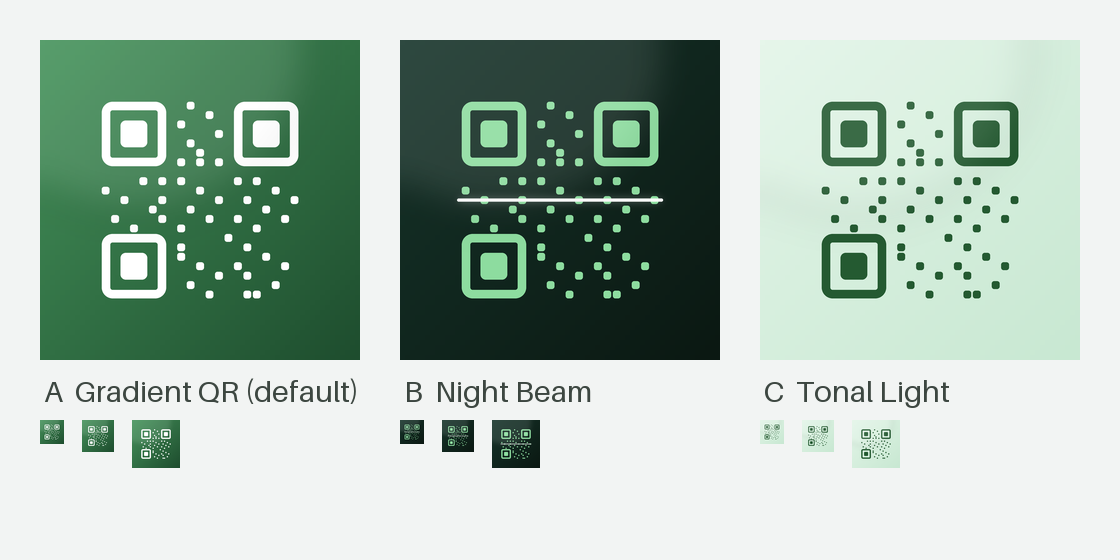
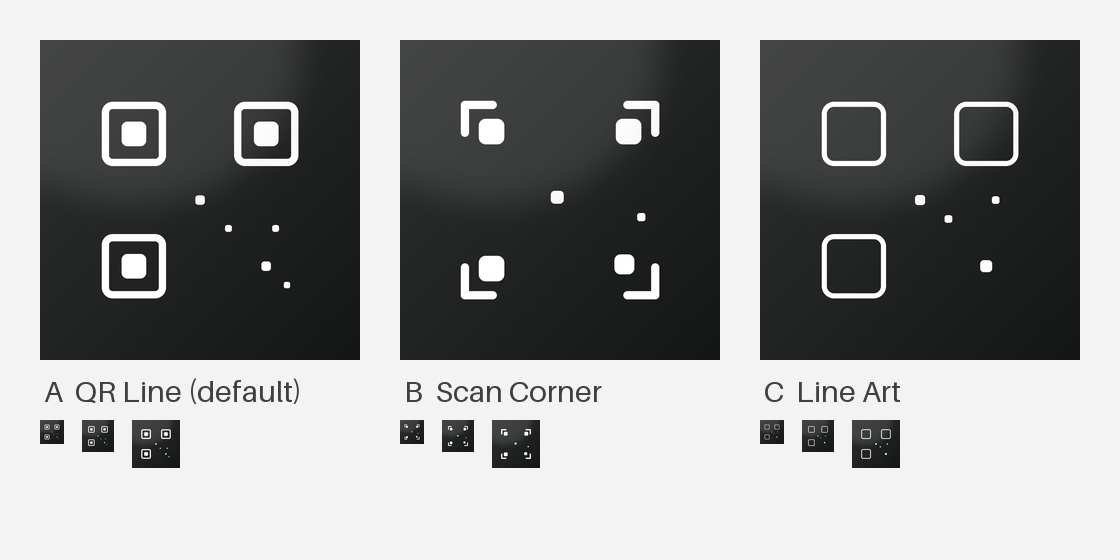
feat: 图标改黑白灰配色（灰黑渐变非纯黑）+ 极简二维码字形（参考 lucide/remixicon）

diff --git a/tools/generate_icons.py b/tools/generate_icons.py
@@ -1,9 +1,14 @@
 #!/usr/bin/env python3
 """生成 PWA 图标（Pillow，纯本地）。
 
-设计 A（默认落地）：对角绿色渐变底 + 白色圆角二维码字形 + 左上柔光。
-变体 B：深绿夜色底 + 薄荷绿字形 + 横向扫描光束。
-变体 C：浅色 tonal 底 + 深绿字形（亮色主题风格）。
+配色：黑白灰——灰黑对角渐变底（#2E3130→#151716，非纯黑）+ 纯白字形。
+字形：极简风格（参考 lucide scan-qr-code / remixicon qr-code-line），
+      三个定位角 + 极少量数据点，不铺满网格。
+
+变体（字形风格对比，默认落地 A）：
+  A QR Line     — 三 finder 描边框+中心块 + 5 稀疏数据点（remixicon qr-code-line 风）
+  B Scan Corner — 四角 L 括号 + 3 实心 finder 小方 + 2 小点（lucide scan-qr-code 风）
+  C Line Art    — 三 finder 细描边框（无中心块）+ 4 小点
 
 输出：
   public/icons/icon-192.png / icon-512.png / maskable-512.png / apple-touch-icon.png
@@ -19,16 +24,10 @@ PREVIEW = os.path.join(ROOT, "design-demo", "icon-variants.png")
 SS = 2          # 超采样倍数
 CANVAS = 1024   # 逻辑画布
 
-# 数据区固定图案（21x21 网格坐标）
-PATTERN = [
-    (9, 0), (11, 1), (8, 2), (12, 3), (9, 4), (10, 5),
-    (16, 8), (18, 9), (20, 10), (17, 11), (19, 12), (16, 13),
-    (0, 9), (2, 10), (4, 8), (1, 12), (3, 13), (5, 11),
-    (8, 8), (10, 9), (12, 10), (9, 11), (11, 12), (8, 13),
-    (8, 16), (10, 17), (12, 18), (9, 19), (11, 20), (8, 15),
-    (14, 8), (15, 10), (14, 12), (15, 15), (17, 16), (19, 17),
-    (15, 18), (18, 19), (16, 20), (13, 14), (14, 17), (15, 20),
-]
+# 灰黑渐变（黑中带灰，不用纯黑）
+GRAPHITE_1 = (46, 49, 48)   # #2E3130
+GRAPHITE_2 = (21, 23, 22)   # #151716
+WHITE = (255, 255, 255)
 
 
 def lerp(a, b, t):
@@ -45,52 +44,71 @@ def gradient(size, c1, c2):
     return g.resize((size, size), Image.BICUBIC)
 
 
-def qr_glyph(draw, ox, oy, u, color):
-    """圆角二维码字形：3 个圆角定位角 + 时序点 + 数据区。"""
-    pad = u * 0.09
+def _dot(draw, ox, oy, u, gx, gy, s, color):
+    """网格 (gx,gy) 处画边长 s*u 的居中圆角点。"""
+    pad = (1 - s) / 2
+    draw.rounded_rectangle(
+        [ox + (gx + pad) * u, oy + (gy + pad) * u, ox + (gx + pad + s) * u, oy + (gy + pad + s) * u],
+        radius=u * s * 0.3, fill=color)
 
-    def mod(x, y, w=1, h=1, r=None):
-        draw.rounded_rectangle(
-            [ox + x * u + pad, oy + y * u + pad, ox + (x + w) * u - pad, oy + (y + h) * u - pad],
-            radius=u * 0.26 if r is None else r, fill=color)
 
+def glyph_qrline(draw, ox, oy, u, color):
+    """A：三 finder（描边框+中心块）+ 5 稀疏点。"""
+    pad = u * 0.10
     for fx, fy in ((0, 0), (14, 0), (0, 14)):
         draw.rounded_rectangle(
             [ox + fx * u + pad, oy + fy * u + pad, ox + (fx + 7) * u - pad, oy + (fy + 7) * u - pad],
-            radius=u * 1.15, outline=color, width=int(u * 0.92))
-        mod(fx + 2, fy + 2, 3, 3, r=u * 0.55)
-
-    for i in range(8, 13, 2):
-        mod(i, 6)
-        mod(6, i)
-
-    for x, y in PATTERN:
-        mod(x, y)
+            radius=u * 1.15, outline=color, width=int(u * 0.78))
+        draw.rounded_rectangle(
+            [ox + (fx + 2.2) * u, oy + (fy + 2.2) * u, ox + (fx + 4.8) * u, oy + (fy + 4.8) * u],
+            radius=u * 0.62, fill=color)
+    for gx, gy, s in ((10, 10, 1.0), (13, 13, 0.72), (17, 17, 1.0), (19.2, 19, 0.66), (18, 13, 0.72)):
+        _dot(draw, ox, oy, u, gx, gy, s, color)
 
 
-def variant(bg1, bg2, glyph_color, gscale=0.62, beam=False):
+def glyph_scancorner(draw, ox, oy, u, color):
+    """B：四角 L 括号 + 3 实心 finder 小方 + 2 小点。"""
+    arm, th = 3.8, 0.85
+    r = th * u / 2
+    # 四角 L 形：(水平臂矩形, 垂直臂矩形) 网格坐标，臂均朝图形内侧延伸
+    corners = (
+        ((0, 0, arm, th), (0, 0, th, arm)),                        # 左上
+        ((21 - arm, 0, 21, th), (21 - th, 0, 21, arm)),            # 右上
+        ((0, 21 - th, arm, 21), (0, 21 - arm, th, 21)),            # 左下
+        ((21 - arm, 21 - th, 21, 21), (21 - th, 21 - arm, 21, 21)),  # 右下
+    )
+    for hrect, vrect in corners:
+        for x0, y0, x1, y1 in (hrect, vrect):
+            draw.rounded_rectangle([ox + x0 * u, oy + y0 * u, ox + x1 * u, oy + y1 * u],
+                                   radius=r, fill=color)
+    for fx, fy in ((1.9, 1.9), (16.4, 1.9), (1.9, 16.4)):
+        draw.rounded_rectangle(
+            [ox + fx * u, oy + fy * u, ox + (fx + 2.7) * u, oy + (fy + 2.7) * u],
+            radius=u * 0.72, fill=color)
+    for gx, gy, s in ((9.7, 9.7, 1.35), (16.8, 16.8, 2.1), (18.6, 11.8, 0.85)):
+        _dot(draw, ox, oy, u, gx, gy, s, color)
+
+
+def glyph_lineart(draw, ox, oy, u, color):
+    """C：三 finder 细描边框（无中心块）+ 4 小点。"""
+    pad = u * 0.10
+    for fx, fy in ((0, 0), (14, 0), (0, 14)):
+        draw.rounded_rectangle(
+            [ox + fx * u + pad, oy + fy * u + pad, ox + (fx + 7) * u - pad, oy + (fy + 7) * u - pad],
+            radius=u * 1.3, outline=color, width=int(u * 0.55))
+    for gx, gy, s in ((10, 10, 1.05), (13, 12, 0.8), (17, 17, 1.25), (18, 10, 0.8)):
+        _dot(draw, ox, oy, u, gx, gy, s, color)
+
+
+def variant(glyph, gscale=0.62):
     size = CANVAS * SS
-    img = gradient(size, bg1, bg2).convert("RGBA")
+    img = gradient(size, GRAPHITE_1, GRAPHITE_2).convert("RGBA")
+    draw = ImageDraw.Draw(img)
     u = size * gscale / 21
     ox = oy = (size - u * 21) / 2
-    by = oy + u * 10.5
+    glyph(draw, ox, oy, u, WHITE)
 
-    if beam:
-        glow = Image.new("RGBA", (size, size), (0, 0, 0, 0))
-        gd = ImageDraw.Draw(glow)
-        gd.rounded_rectangle([ox - u * 0.6, by - u * 0.55, ox + u * 21.6, by + u * 0.55],
-                             radius=u * 0.55, fill=(255, 255, 255, 60))
-        glow = glow.filter(ImageFilter.GaussianBlur(u * 0.5))
-        img = Image.alpha_composite(img, glow)
-
-    draw = ImageDraw.Draw(img)
-    qr_glyph(draw, ox, oy, u, glyph_color)
-
-    if beam:
-        draw.rounded_rectangle([ox - u * 0.4, by - u * 0.16, ox + u * 21.4, by + u * 0.16],
-                               radius=u * 0.16, fill=(255, 255, 255, 190))
-
-    # 左上柔光
+    # 左上柔光（玻璃质感）
     sheen = Image.new("RGBA", (size, size), (0, 0, 0, 0))
     sd = ImageDraw.Draw(sheen)
     sd.ellipse([-size * 0.25, -size * 0.45, size * 0.85, size * 0.55], fill=(255, 255, 255, 26))
@@ -104,19 +122,18 @@ def sheet(variants):
     tile, gap, pad = 320, 40, 40
     w = pad * 2 + tile * 3 + gap * 2
     h = pad * 2 + tile + 70 + 90
-    canvas = Image.new("RGB", (w, h), (242, 244, 243))
+    canvas = Image.new("RGB", (w, h), (242, 243, 242))
     draw = ImageDraw.Draw(canvas)
     try:
         font = ImageFont.load_default(size=30)
     except TypeError:
         font = ImageFont.load_default()
-    labels = ["A  Gradient QR (default)", "B  Night Beam", "C  Tonal Light"]
+    labels = ["A  QR Line (default)", "B  Scan Corner", "C  Line Art"]
     for i, (v, label) in enumerate(zip(variants, labels)):
         x = pad + i * (tile + gap)
         icon = v.resize((tile, tile), Image.LANCZOS)
         canvas.paste(icon, (x, pad), icon)
-        draw.text((x + 4, pad + tile + 12), label, fill=(60, 70, 64), font=font)
-        # 小尺寸可读性
+        draw.text((x + 4, pad + tile + 12), label, fill=(60, 64, 62), font=font)
         sx = x
         for s in (24, 32, 48):
             small = v.resize((s, s), Image.LANCZOS)
@@ -128,17 +145,17 @@ def sheet(variants):
 
 def main():
     os.makedirs(OUT_DIR, exist_ok=True)
-    a = variant((69, 147, 91), (30, 77, 46), (255, 255, 255))
-    b = variant((22, 52, 42), (11, 24, 18), (141, 220, 159), beam=True)
-    c = variant((227, 245, 232), (200, 232, 210), (36, 90, 49))
+    a = variant(glyph_qrline)
+    b = variant(glyph_scancorner)
+    c = variant(glyph_lineart)
     sheet([a, b, c])
 
     a.resize((192, 192), Image.LANCZOS).save(f"{OUT_DIR}/icon-192.png")
     a.resize((512, 512), Image.LANCZOS).save(f"{OUT_DIR}/icon-512.png")
-    variant((69, 147, 91), (30, 77, 46), (255, 255, 255), gscale=0.52) \
-        .resize((512, 512), Image.LANCZOS).save(f"{OUT_DIR}/maskable-512.png")
-    variant((69, 147, 91), (30, 77, 46), (255, 255, 255), gscale=0.60) \
-        .resize((180, 180), Image.LANCZOS).save(f"{OUT_DIR}/apple-touch-icon.png")
+    variant(glyph_qrline, gscale=0.52).resize((512, 512), Image.LANCZOS) \
+        .save(f"{OUT_DIR}/maskable-512.png")
+    variant(glyph_qrline, gscale=0.60).resize((180, 180), Image.LANCZOS) \
+        .save(f"{OUT_DIR}/apple-touch-icon.png")
     print("icons written to", OUT_DIR)
 
 
